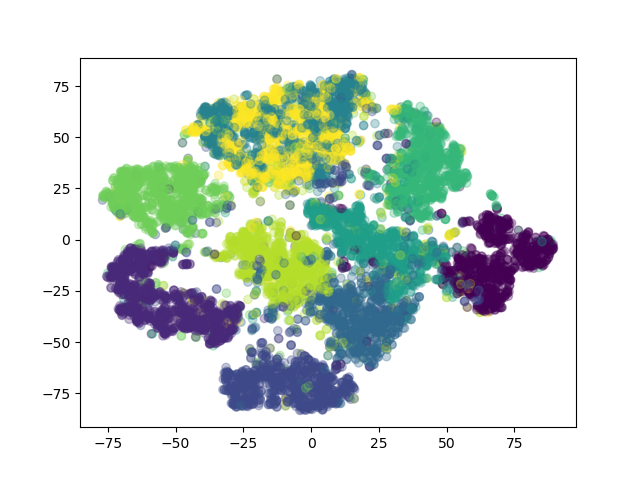
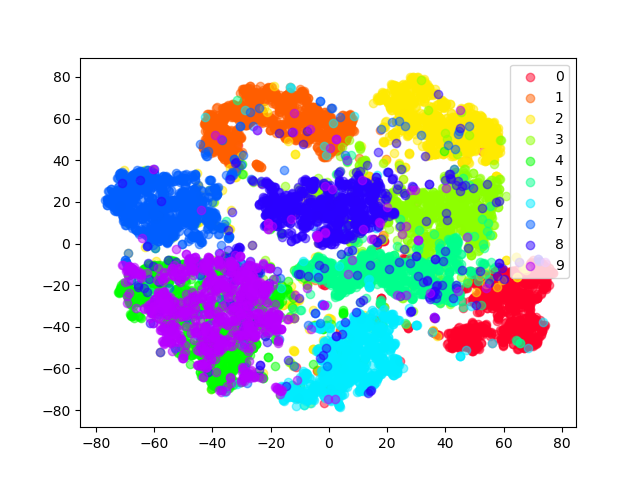
Added legend to tsne

diff --git a/eval_tools/tsne_eval.py b/eval_tools/tsne_eval.py
@@ -3,6 +3,7 @@ import torch
 import torchvision
 from torchvision.utils import make_grid, save_image
 import argparse
+import matplotlib
 import matplotlib.pyplot as plt
 import numpy as np
 import os,sys,inspect
@@ -33,6 +34,8 @@ model.load_state_dict(checkpoint['model_state_dict'])
 hidden_list = []
 targets = []
 for i, (data, target) in enumerate(loader):
+    #if i > 50:
+    #    break
     if i % int(len(loader)/10) == 0:
         print('%d/%d'%(i,len(loader)))
     hidden = model.encode(data).detach().numpy()
@@ -43,10 +46,18 @@ hidden_list = np.vstack(hidden_list)
 print('Computing tsne representation')
 X_embedded = TSNE(n_components=2).fit_transform(hidden_list)
 
-#save_image(img, 'result_figures/'+args.model+'_reconstruction.png')
-#img = np.moveaxis(img.numpy(), 0, -1)
+
 targets = np.stack(targets)
-plt.scatter(X_embedded[:,0], X_embedded[:,1], c=targets, alpha=0.3)
+#plt.scatter(X_embedded[:,0], X_embedded[:,1], c=targets, alpha=0.3)
+
+cm = matplotlib.cm.get_cmap('gist_rainbow')
+
+fig, ax = plt.subplots()
+for g in np.unique(targets):
+    ix = np.where(targets == g)
+    ax.scatter(X_embedded[ix,0], X_embedded[ix,1], color = cm(g/10.0), label = g, alpha=0.5)
+ax.legend()
+
 plt.savefig('result_figures/tsne_autoencoder.png')
 plt.show()
 
